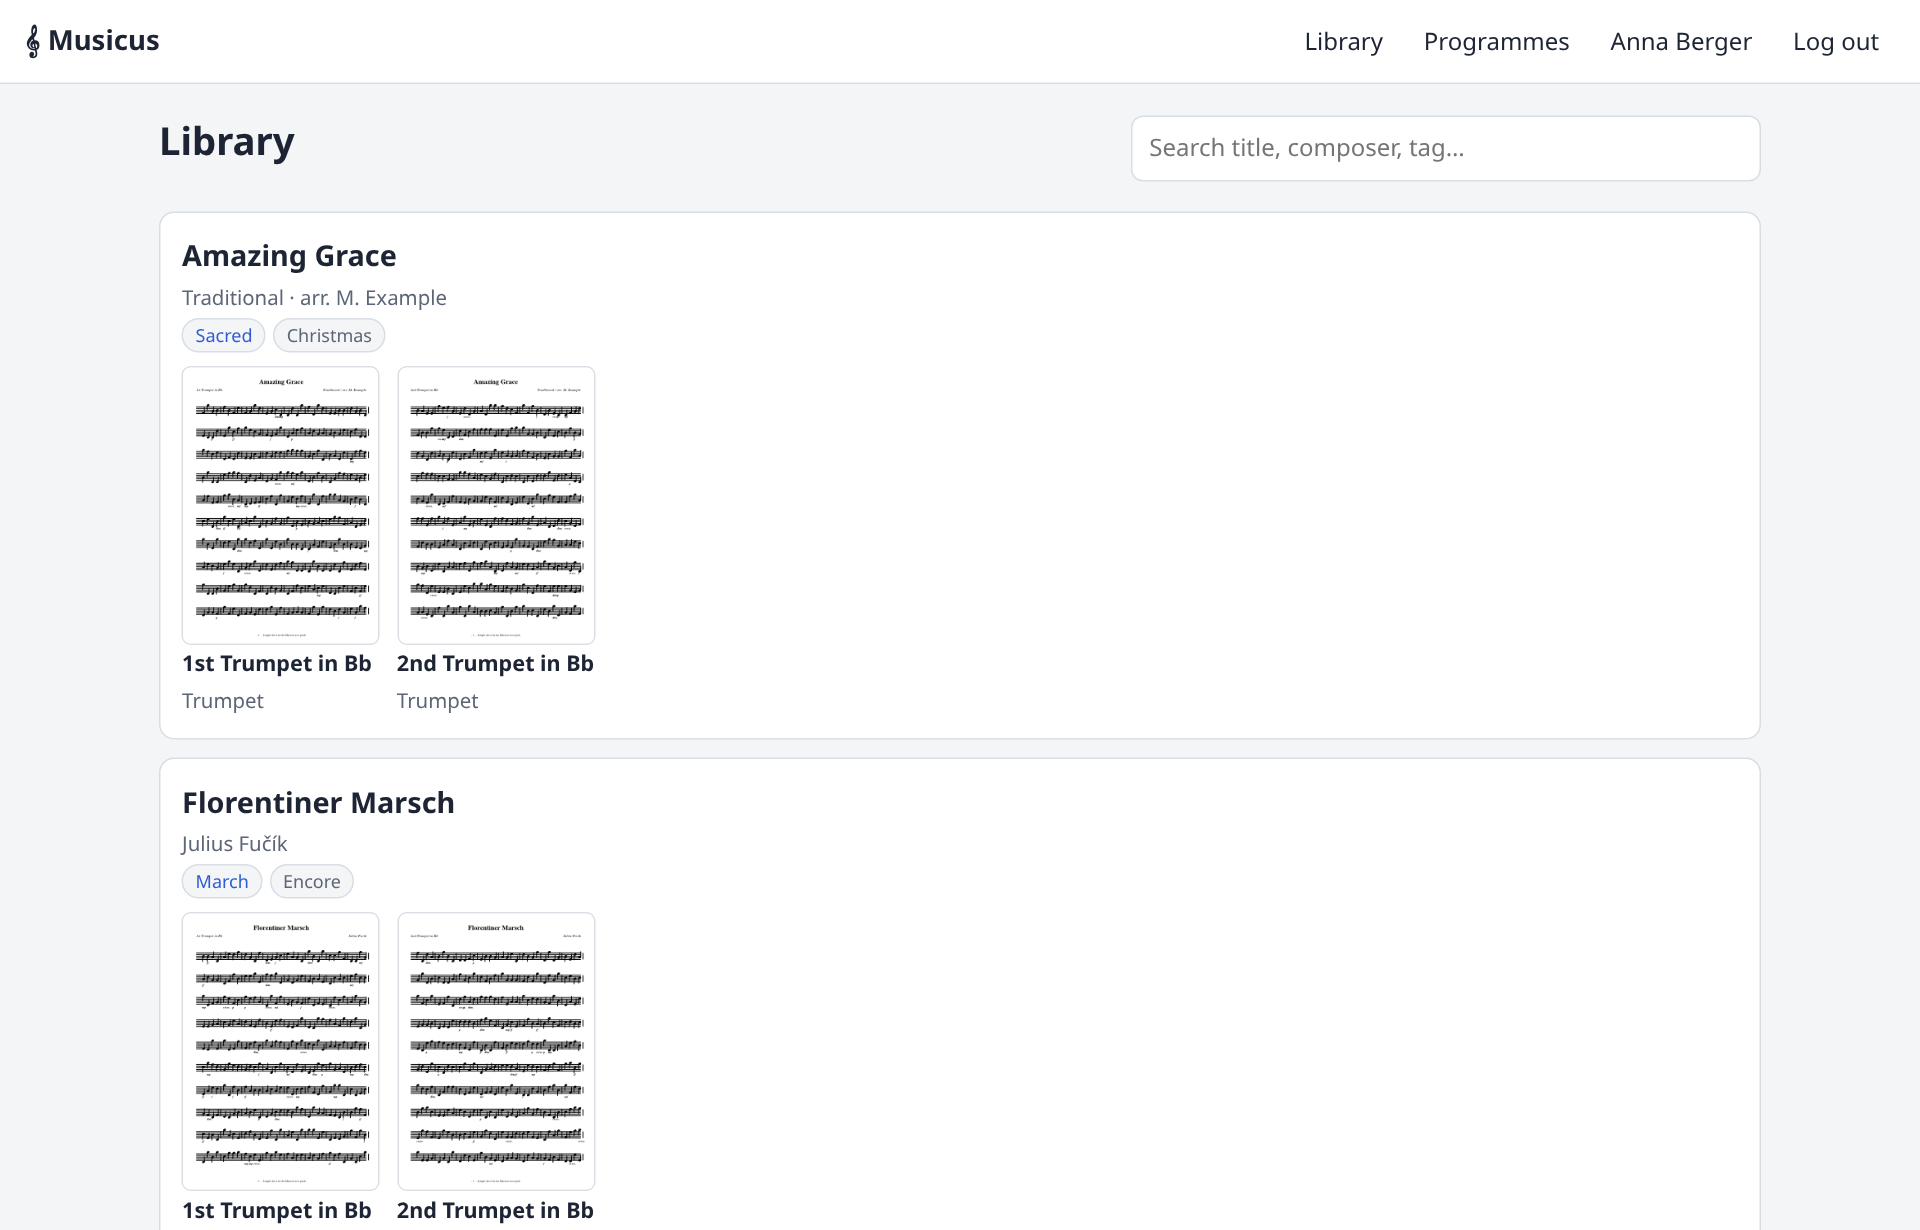
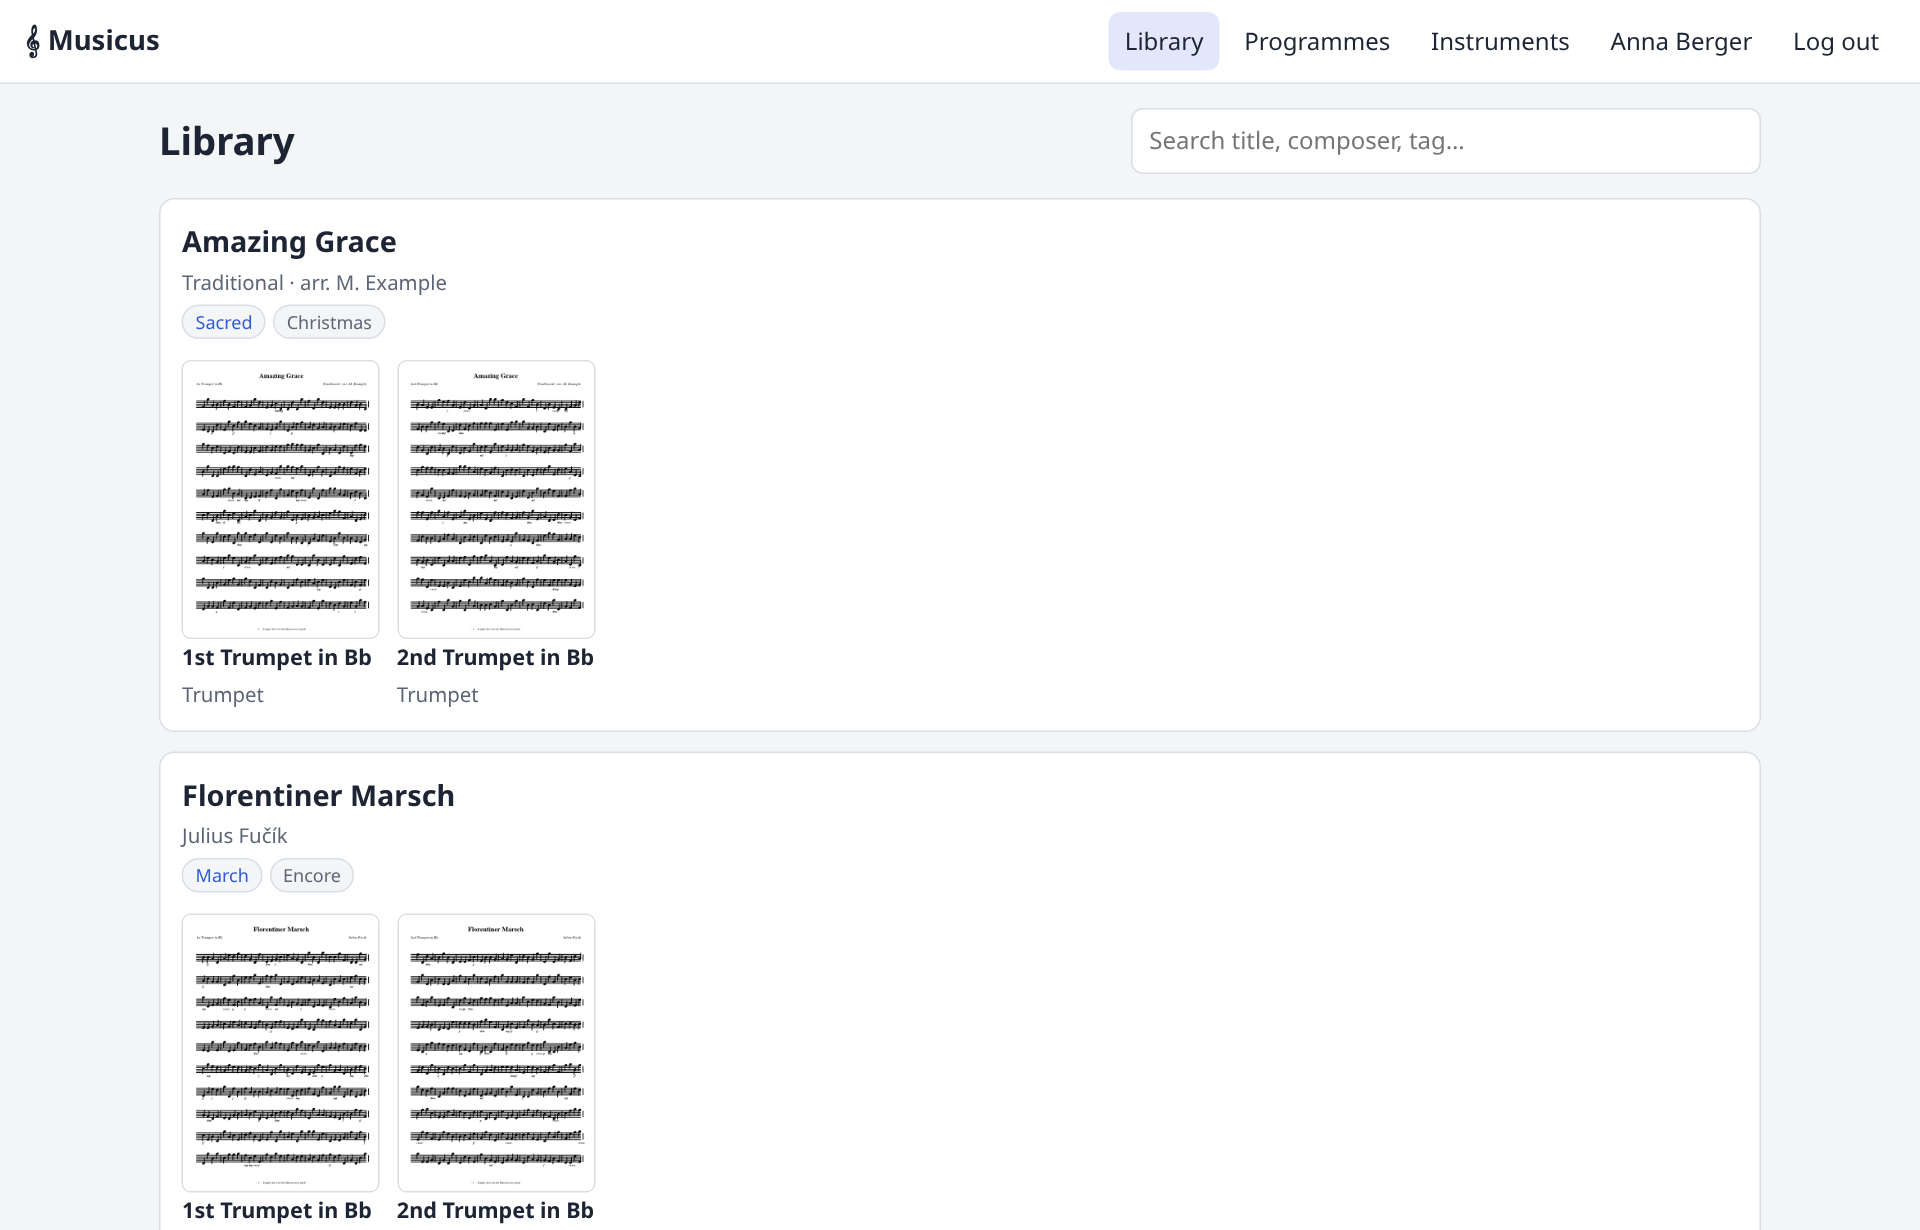
Guide for the new UI without a Manage tab
Librarians and admins now work in the library, programme and instrument
pages (Add piece, Edit on pieces and parts, New programme, Edit on a
programme) plus the Groups and Users tabs. Rewrite the admin and librarian
chapters and the FAQ accordingly, adapt tools/screenshots.mjs (the last
sample piece is added through the guided flow) and regenerate all
screenshots; the old manage-*.png images are removed.

Claude-Session: https://claude.ai/code/session_01SUyQxQVi6w79TzqzgsJ3i1

diff --git a/README.md b/README.md
@@ -26,8 +26,8 @@ PDF looks the same everywhere.
 | `template.typ` | Layout for both outputs: `guide`, `ui` (button labels), `kbd`, `role`, `who`, `tip`/`note`/`warning`, `shot`/`shots` (screenshots), `cards`; HTML stylesheet |
 | `chapters/01-welcome.typ` | What Musicus is, roles, how access works |
 | `chapters/02-installation.typ` | Docker, direct installation, HTTPS, backups, updates, settings |
-| `chapters/03-admin.typ` | Admins: first login, accounts, groups |
-| `chapters/04-librarian.typ` | Librarians: instruments, scores, parts, uploads, access, programmes |
+| `chapters/03-admin.typ` | Admins: first login, navigation, accounts, groups |
+| `chapters/04-librarian.typ` | Librarians: instruments, adding a piece (guided flow), editing pieces and parts, uploads, access, programmes |
 | `chapters/05-member.typ` | Musicians: library, programmes, reader, annotations, account |
 | `chapters/06-faq.typ` | Questions and answers |
 | `images/` | Screenshots (generated, see below) |
